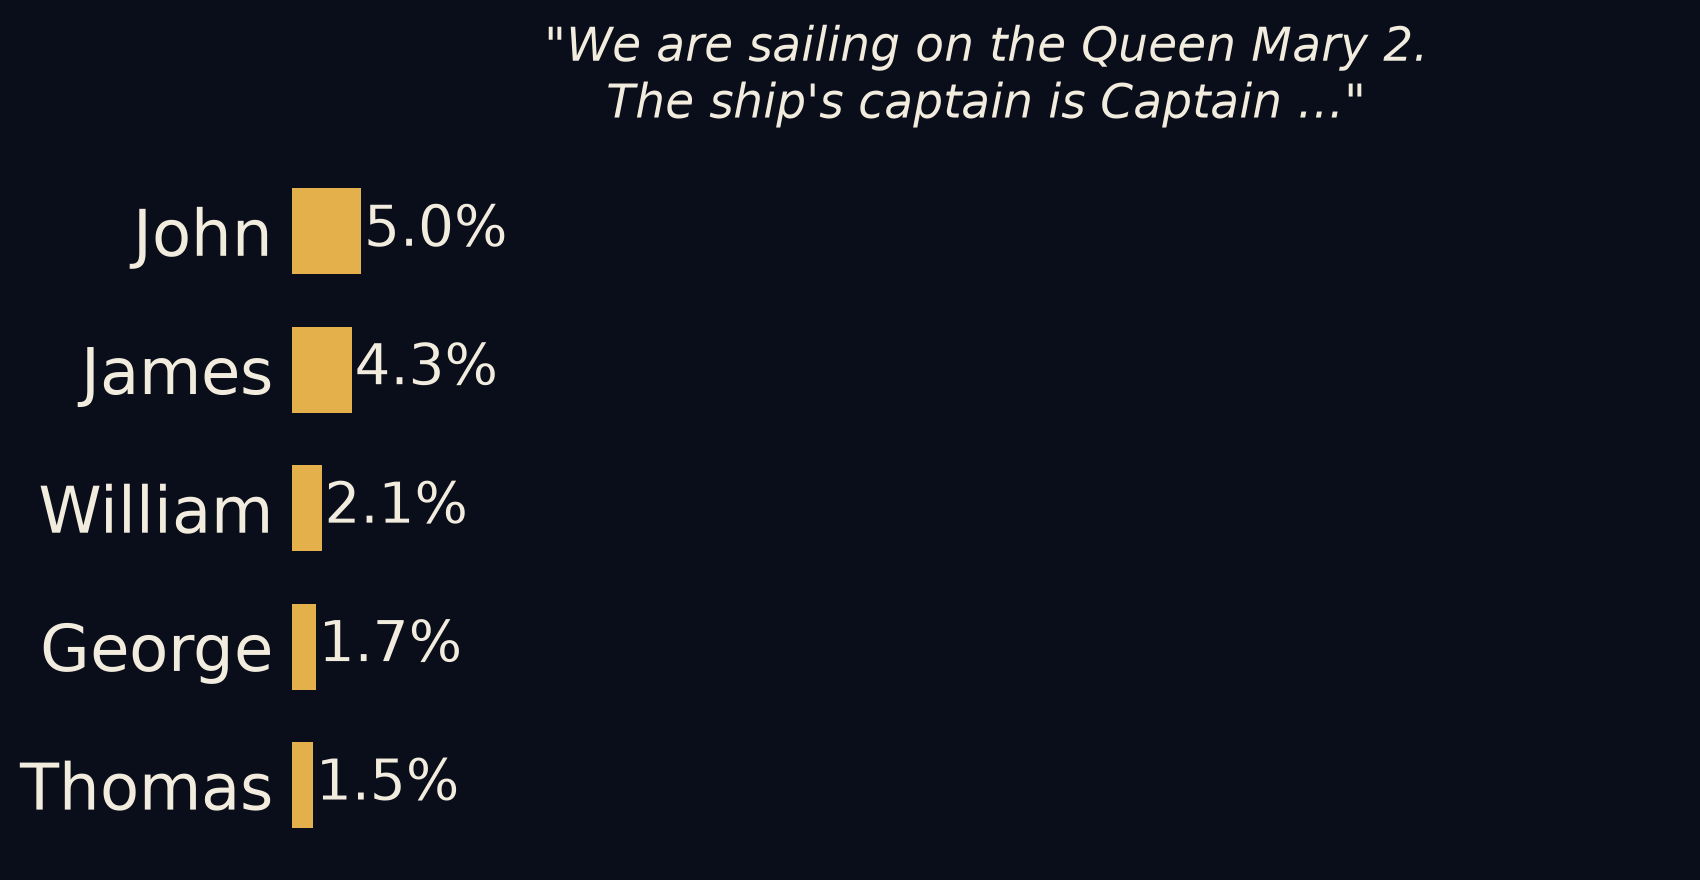
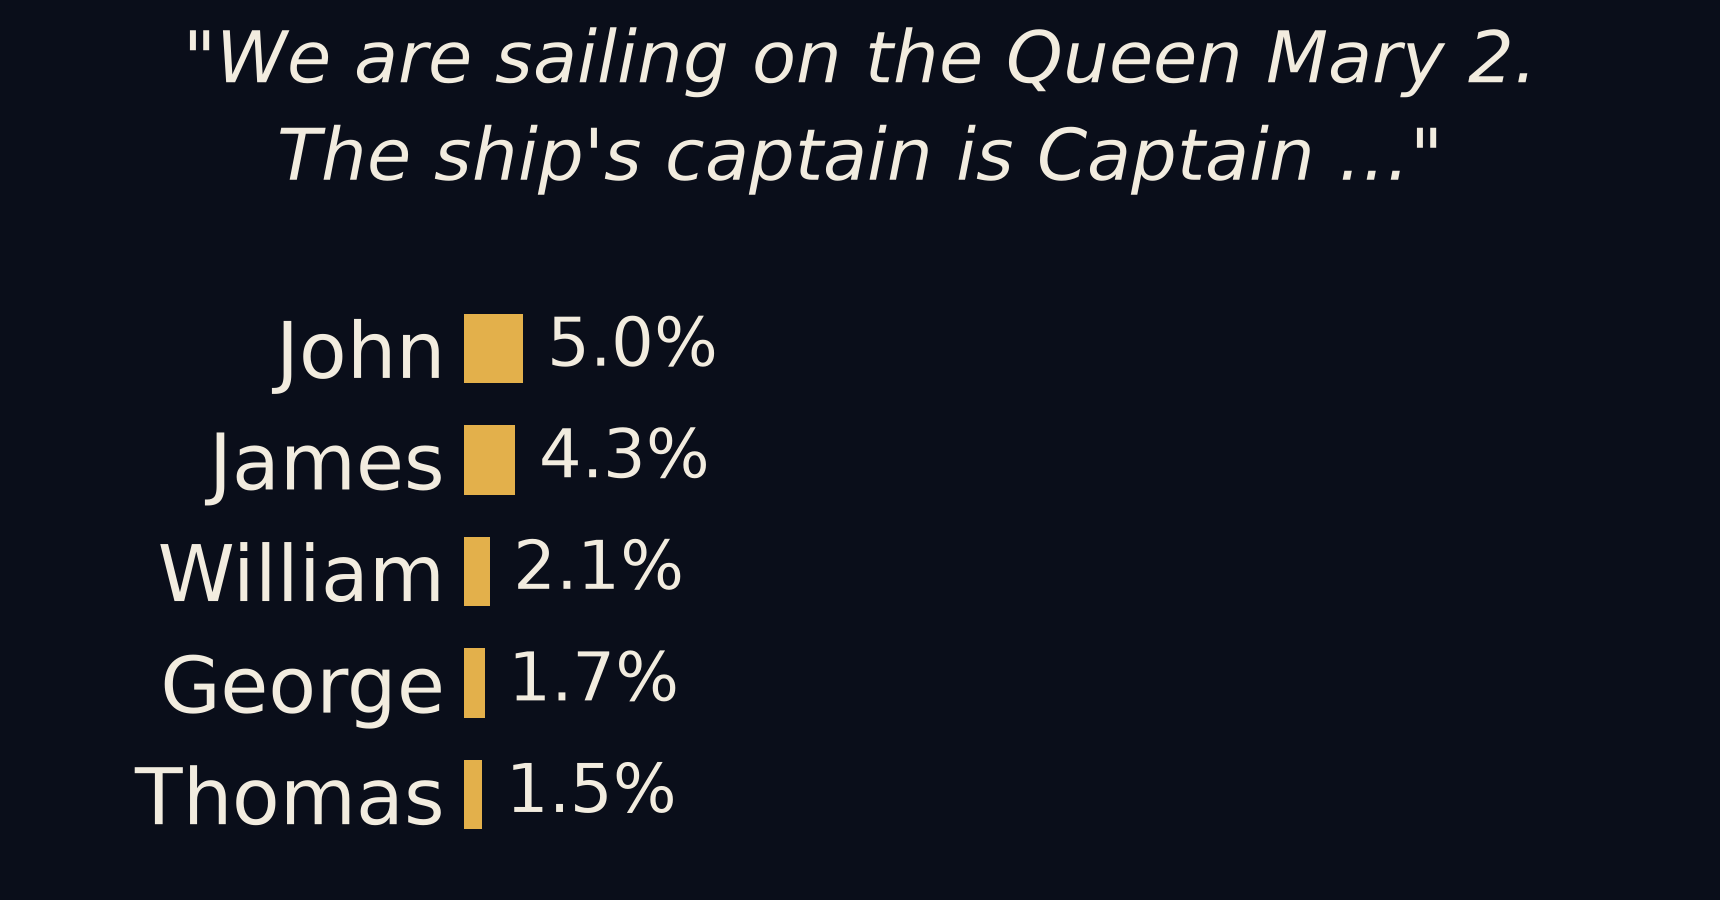
slide 24: white heads+questions, bigger aligned charts, 'options' wording, hallucination hook question, no em-dash

diff --git a/style.css b/style.css
@@ -867,22 +867,31 @@
 .fon-arr { display: inline-block; width: 2.1rem; vertical-align: -0.3rem; margin: 0 0.2rem; color: var(--ink); }
 
 /* slide 24 (creativity & hallucination): column heads + italic hook questions */
-.ch-head { font-family: 'Fraunces', serif; font-weight: 600; font-size: 1.6rem; color: var(--ink); margin-bottom: 0.3rem; }
-.ch-q { font-style: italic; color: var(--ink-dim); font-size: 1.05rem; line-height: 1.45; }
+.ch-head { font-family: 'Fraunces', serif; font-weight: 600; font-size: 1.6rem; color: #ffffff; margin-bottom: 0.05rem; }
+.ch-q { font-style: italic; color: #ffffff; font-size: 0.95rem; line-height: 1.45; min-height: 2.9rem; }
 
-/* slide 25 (data is gold): green/purple layout, no gold/greige */
-.dg-label { font-size: 1.05rem; font-weight: 600; letter-spacing: 0.18em; text-transform: uppercase; color: #8fcbab; }
-.dg-list > div { font-size: 1.35rem; padding: 0.18rem 0; }
-.dg-list > div::before { content: '\25B8\00a0\00a0'; color: #8fcbab; }
+/* slide 25 (data is gold): white/gold base, purple only on the reading example.
+   .dg-green stays for slide 21 (file of numbers). */
+.dg-label { font-size: 1.35rem; font-weight: 700; letter-spacing: 0.18em; text-transform: uppercase; color: var(--talk-accent); }
+.dg-list > div { font-size: 1.35rem; padding: 0.04rem 0; }
+.dg-list > div::before { content: '\25B8\00a0\00a0'; color: var(--talk-accent); }
 .dg-green {
   border: 2px solid rgba(143, 203, 171, 0.7); background: rgba(143, 203, 171, 0.08);
   border-radius: 0.7rem; padding: 0.9rem 1.2rem; font-size: 1.15rem; line-height: 1.5;
 }
 .dg-green b { color: #8fcbab; }
+.dg-purple {
+  border: 2px solid rgba(114, 99, 184, 0.65); background: rgba(114, 99, 184, 0.08);
+  border-radius: 0.7rem; padding: 0.9rem 1.2rem; font-size: 1.15rem; line-height: 1.5;
+}
+.dg-purple b { color: #b9a9ee; }
 .dg-ref { font-size: 0.8rem; color: rgba(242, 236, 223, 0.55); font-style: italic; margin-top: 0.3rem; text-align: right; }
-.dg-card { border: 2px solid rgba(114, 99, 184, 0.65); border-radius: 0.7rem; padding: 0.7rem 0.9rem; font-size: 1rem; line-height: 1.4; }
-.dg-card b { color: #b9a9ee; font-size: 1.12rem; }
-.dg-card > div { color: rgba(242, 236, 223, 0.85); }
+.dg-slide h1 { margin-bottom: 0.7rem; }
+.dg-slide .rule { margin: 0.6rem 0 0.9rem; }
+.dg-ch > div { padding: 0.1rem 0; }
+.dg-main { font-size: 1.35rem; line-height: 1.3; color: var(--ink); }
+.dg-main::before { content: '\25B8\00a0\00a0'; color: var(--talk-accent); }
+.dg-sub { font-size: 0.92rem; line-height: 1.3; color: rgba(242, 236, 223, 0.72); padding-left: 1.55rem; }
 
 /* slide 23 (spectacular): single gold accent, dim supporting lines */
 .em-spark { color: var(--talk-accent); }

diff --git a/slides.md b/slides.md
@@ -1,7 +1,7 @@
 ---
 theme: default
 title: AI is not magic
-titleTemplate: '%s — NomadCruise 17'
+titleTemplate: '%s · NomadCruise 17'
 author: Marijke Valk
 colorSchema: dark
 exportFilename: ai-is-not-magic
@@ -1305,26 +1305,27 @@ exist without being designed in — that part is not disputed.]
 
 <hr class="rule" />
 
-<div class="grid grid-cols-2 gap-12 text-base leading-snug">
+<div class="grid grid-cols-2 gap-12 text-base leading-snug" style="margin-top:-0.6rem;">
 <div>
 
 <div class="ch-head">Creativity</div>
 <div class="ch-q">As the weights are frozen, why don't you get the same answer every time?</div>
 
-<img :src="'/art/top5-city.png'" class="rounded w-full my-1" style="max-height:7.5rem; object-fit:contain;" />
+<img :src="'/art/top5-city-24.png'" class="rounded w-full my-1" style="height:8.5rem; object-fit:contain;" />
 
-<div class="mt-1">Next token is a <b>draw</b> from the <b>probability distribution</b></div>
+<div class="mt-1" style="min-height:3.4rem;">Next token is a <b>draw</b> from the <b>options</b></div>
 <div class="mt-1"><b class="accent">Temperature</b>: determines how often a less likely token wins</div>
 
 </div>
 <div v-click>
 
 <div class="ch-head">Hallucination</div>
-<div class="ch-q">A next token is always drawn — even when there is no clear answer</div>
+<div class="ch-q">Why do you sometimes get completely wrong answers with full confidence?</div>
 
-<img :src="'/art/top5-flat.png'" class="rounded w-full my-1" style="max-height:7.5rem; object-fit:contain;" />
+<img :src="'/art/top5-flat.png'" class="rounded w-full my-1" style="height:8.5rem; object-fit:contain;" />
 
-<div class="accent mt-2 text-xl" style="font-family:'Fraunces',serif;">Plausible doesn't mean true</div>
+<div class="mt-1" style="min-height:3.4rem;">A next token is <b>always drawn</b>, even when there is no clear answer</div>
+<div class="mt-1"><b class="accent">Plausible</b> doesn't mean true</div>
 
 </div>
 </div>
@@ -1338,8 +1339,8 @@ Here's something that should puzzle you. The model is a frozen file — same
 file, same question. So you'd expect the same answer, every single time.
 And you know from experience: that's not what happens. Why not?
 
-Because of the dice. The next token is a DRAW from the probability
-distribution — that list of percentages the model hands over. Usually the
+Because of the dice. The next token is a DRAW from the options — that
+list of percentages the model hands over. Usually the
 most likely word wins, but with a certain chance a less likely one gets
 picked instead. Remember the favourite-city list: London, Tokyo, New York,
 Paris, Barcelona — no single winner. The dice pick one, and each run the
@@ -1381,6 +1382,8 @@ just saw stands on it.
 -->
 
 ---
+class: dg-slide
+---
 
 <div class="kicker">Part two <span class="dim kfit">· an LLM is statistics built on our written world</span></div>
 
@@ -1390,25 +1393,25 @@ just saw stands on it.
 
 <div class="grid grid-cols-[1fr_1.25fr] gap-10 items-center mt-1">
 <div>
-  <div class="dg-label">The raw material</div>
-  <div class="dg-list mt-2">
+  <div class="dg-label">The raw data</div>
+  <div class="dg-list mt-1">
     <div>Public web</div>
     <div>Books</div>
     <div>Code</div>
   </div>
 </div>
-<div class="dg-green">
+<div class="dg-purple">
   <b>Llama 4 read over 30 trillion tokens</b>
   <div class="mt-1">= 100,000+ years of full-time reading for a human</div>
   <div class="dg-ref">Meta 2025</div>
 </div>
 </div>
 
-<div class="dg-label mt-5">Challenges</div>
-<div class="grid grid-cols-3 gap-4 mt-2">
-  <div v-click class="dg-card"><b>Polluted data</b><div class="mt-1">What it reads is what it learns (biases)</div></div>
-  <div v-click class="dg-card"><b>Ownership & copyright</b><div class="mt-1">Nobody asked the people who wrote it</div></div>
-  <div v-click class="dg-card"><b>The well is running dry</b><div class="mt-1">The web is nearly read out · Hardly any new data is left</div></div>
+<div class="dg-label mt-4">Challenges</div>
+<div class="dg-ch mt-1">
+  <div v-click><div class="dg-main">Polluted data</div><div class="dg-sub">What it reads is what it learns (biases)</div></div>
+  <div v-click><div class="dg-main">Ownership & copyright</div><div class="dg-sub">Nobody asked the people who wrote it</div></div>
+  <div v-click><div class="dg-main">The well is running dry</div><div class="dg-sub">The web is nearly read out · Hardly any new data is left</div></div>
 </div>
 
 <img :src="'/art/tovenaar-19-goudklomp.svg'" class="mage" style="top:4.2rem; right:1.8rem; bottom:auto; height:6.5rem;" />
